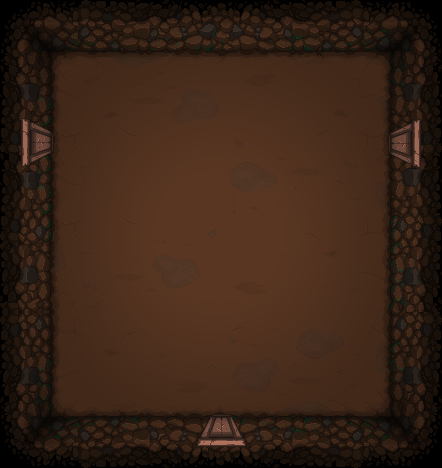
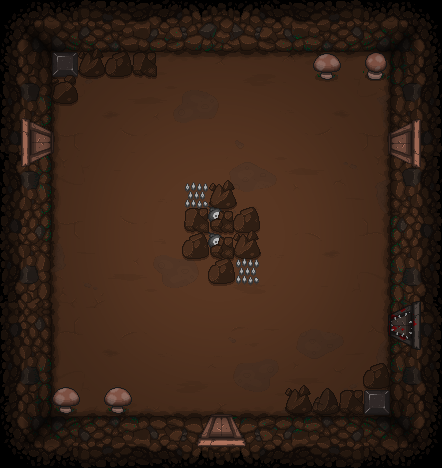
automatizacion de componetes: sprites, section,infocard

diff --git a/src/pages/Home/components/SectionImage/SectionImage.tsx b/src/pages/Home/components/SectionImage/SectionImage.tsx
@@ -4,32 +4,9 @@ import { motion, useScroll, useSpring, useTransform } from "framer-motion";
 import SectionBackground from "../SectionBackground/SectionBackground";
 import SectionInfo from "../SectionInfo/SectionInfo";
 import Banner from "../Banner/Banner";
-import SectionInfoTwo from "../HomeSectionInfos/SectionInfoTwo/SectionInfoTwo";
-import PixelSceneTwo from "../HomePixelScene/PixelSceneTwo/PixelSceneTwo";
-
-const sectionHeight = [140, 500, 650, 300, 400, 500, 400, 300, 150];
-const heightTotal = sectionHeight.reduce((acum, number) => acum + number, 0);
-
-const sections = [
-  { id: 1, shadow: "11", name: "basement" },
-  { id: 2, shadow: "12", name: "cellar" },
-  { id: 3, shadow: "21", name: "cavesv2" },
-  { id: 4, shadow: "22", name: "catacombs" },
-  { id: 5, shadow: "31", name: "necropolis" },
-  { id: 6, shadow: "32", name: "depthsL" },
-  { id: 7, shadow: "41", name: "utero" },
-];
-const scrollStartEnd: [number, number][] = sectionHeight.map(
-  (height, index) => {
-    const start =
-      index == 0
-        ? 0
-        : sectionHeight.slice(0, index).reduce((sum, h) => sum + h, 0) /
-          heightTotal;
-    const end = start + height / heightTotal;
-    return [start, end];
-  }
-);
+import SectionInfoTwo from "../SectionInfos/SectionInfoTwo/SectionInfoTwo";
+import { scrollStartEnd, heightTotal, sections } from "./config";
+import PixelScene from "../PixelScene/PixelScene";
 
 const SectionImage = () => {
   const scrollRef = useRef<HTMLDivElement | null>(null);
@@ -98,10 +75,27 @@ const SectionImage = () => {
                   ScrollYProgress={scrollYProgress}
                   ScrollStartEnd={scrollStartEnd[section.id - 1]}
                 ></SectionInfoTwo>
-                <PixelSceneTwo ScrollYProgress={scrollYProgress} ScrollStartEnd={scrollStartEnd[section.id - 1]}></PixelSceneTwo>
+                 {section.pixelSprite.map((pixel, index) => (
+                  <PixelScene
+                    key={index}
+                    scrollYProgress={scrollYProgress}
+                    scrollStartEnd={scrollStartEnd[section.id - 1]}
+                    pixelsprite={pixel}
+                  ></PixelScene>
+                ))}
               </>
             ) : (
-              <SectionInfo scrollYProgress={scrollYProgress}></SectionInfo>
+              <>
+                <SectionInfo scrollYProgress={scrollYProgress}></SectionInfo>
+                {section.pixelSprite.map((pixel, index) => (
+                  <PixelScene
+                    key={index}
+                    scrollYProgress={scrollYProgress}
+                    scrollStartEnd={scrollStartEnd[section.id - 1]}
+                    pixelsprite={pixel}
+                  ></PixelScene>
+                ))}
+              </>
             )}
           </SectionBackground>
         ))}

diff --git a/src/pages/Home/components/SectionImage/config.ts b/src/pages/Home/components/SectionImage/config.ts
@@ -1,0 +1,112 @@
+import { PixelSprite, Section } from "../Types";
+
+const sectionHeight = [140, 500, 650, 300, 400, 500, 400, 300, 150];
+
+export const heightTotal = sectionHeight.reduce(
+  (acum, number) => acum + number,
+  0
+);
+
+const pixelSprite2: PixelSprite[] = [
+  {
+    width: 10,
+    height: 8.5,
+    background_img: "/img/monsters/baby_long_legs.png",
+    animation: [0, 30],
+    bottom: 20,
+    right: 65,
+    x: 50,
+    y: -50,
+    sprites: 5,
+  },
+  {
+    width: 10,
+    height: 8.5,
+    background_img: "/img/monsters/crazy_long_legs.png",
+    animation: [3, 30],
+    bottom: 52,
+    right: 14,
+    x: -80,
+    y: -80,
+    sprites: 5,
+  },
+  {
+    width: 6.5,
+    height: 8.5,
+    background_img: "/img/others/gaper.png",
+    animation: [0, 30],
+    bottom: 45.5,
+    left: 12,
+    x: 100,
+    sprites: 10,
+  },
+  {
+    width: 6.5,
+    height: 8,
+    background_img: "/img/others/isaac_running.png",
+    animation: [0, 12],
+    bottom: 45,
+    right: 35,
+    x: -90,
+    sprites: 10,
+  },
+];
+
+const pixelSprite3: PixelSprite[] = [
+  {
+    width: 8.5,
+    height: 9,
+    background_img: "/img/others/fire_place.png",
+    animation: [0, 25],
+    top: 8.4,
+    right: 15.7,
+    sprites: 6,
+  },
+  {
+    width: 8.5,
+    height: 9,
+    background_img: "/img/others/fire_place.png",
+    animation: [3, 28],
+    bottom: 11.4,
+    left: 16.7,
+    sprites: 6,
+  },
+  {
+    width: 11,
+    height: 7.5,
+    background_img: "public/img/monsters/one_tooth.png",
+    animation: [0, 18],
+    top: 18,
+    left: 36,
+    x: -40,
+    y:100,
+    sprites: 3,
+  },
+];
+
+export const sections: Section[] = [
+  {
+    id: 1,
+    shadow: "11",
+    name: "basement",
+    pixelSprite: pixelSprite2,
+  },
+  { id: 2, shadow: "12", name: "cellar", pixelSprite: pixelSprite2 },
+  { id: 3, shadow: "21", name: "cavesv2", pixelSprite: pixelSprite3 },
+  { id: 4, shadow: "22", name: "catacombs", pixelSprite: pixelSprite2 },
+  { id: 5, shadow: "31", name: "necropolis", pixelSprite: pixelSprite2 },
+  { id: 6, shadow: "32", name: "depthsL", pixelSprite: pixelSprite2 },
+  { id: 7, shadow: "41", name: "utero", pixelSprite: pixelSprite2 },
+];
+
+export const scrollStartEnd: [number, number][] = sectionHeight.map(
+  (height, index) => {
+    const start =
+      index === 0
+        ? 0
+        : sectionHeight.slice(0, index).reduce((sum, h) => sum + h, 0) /
+          heightTotal;
+    const end = start + height / heightTotal;
+    return [start, end];
+  }
+);

diff --git a/src/pages/Home/components/PixelScene/PixelScene.tsx b/src/pages/Home/components/PixelScene/PixelScene.tsx
@@ -1,0 +1,39 @@
+import { PixelSprite } from '../Types';
+import { motion, MotionValue, useSpring, useTransform } from 'framer-motion';
+import style from './PixelScene.module.css'
+
+interface PropsPixelScene {
+    scrollYProgress: MotionValue<number>;
+    scrollStartEnd: [number, number];
+    pixelsprite: PixelSprite
+}
+
+const PixelScene = ({scrollYProgress,scrollStartEnd,pixelsprite}:PropsPixelScene) => {
+    const start = scrollStartEnd[0];
+    const end = scrollStartEnd[1];
+    let valuex1;
+    let valuey1;
+    const animation = useTransform(scrollYProgress, [start,end],[pixelsprite.animation[0],pixelsprite.animation[1]]);
+    const animationsmooth = useSpring(animation,{stiffness:200, damping:40})
+    const animationvalue = useTransform(animationsmooth, (value) => `calc(-${pixelsprite.width}vw *${Math.floor(value) % pixelsprite.sprites})`);
+
+    if(pixelsprite.x){
+        const x1 = useTransform(scrollYProgress,[start,end],[0,pixelsprite.x]);
+        const x1smooth = useSpring(x1,{stiffness:300, damping:40})
+        valuex1 = useTransform(x1smooth, (value) => `${value}%`)
+    }
+
+    if(pixelsprite.y){
+        const y1 =useTransform(scrollYProgress,[start,end],[0,pixelsprite.y]);
+        const y1smooth = useSpring(y1,{stiffness:300, damping:40})
+        valuey1 = useTransform(y1smooth, (value) => `${value}%`)
+    }
+   
+
+  return (
+    <motion.div className={style.pixel} style={{backgroundPositionX:animationvalue,backgroundSize:`calc(${pixelsprite.width}vw * ${pixelsprite.sprites}) auto`, x:valuex1, y:valuey1, width:`${pixelsprite.width}vw`, height:`${pixelsprite.height}vw`, backgroundImage: `url(${pixelsprite.background_img})` , top:`${pixelsprite.top}%`, bottom:`${pixelsprite.bottom}%`, left:`${pixelsprite.left}%`, right:`${pixelsprite.right}%`}}>
+    </motion.div>
+  )
+}
+
+export default PixelScene

diff --git a/src/pages/Home/components/Types.ts b/src/pages/Home/components/Types.ts
@@ -1,0 +1,35 @@
+export interface PixelSprite{
+    width:number;
+    height:number;
+    background_img:string;
+    top?:number;
+    bottom?:number;
+    left?:number;
+    right?:number;
+    animation:[number,number];
+    x?:number;
+    y?:number;
+    sprites:number;
+}
+
+export interface Section{
+    id:number;
+    shadow: string;
+    name:string;
+    pixelSprite: PixelSprite[];
+}
+
+export interface InfoCard{
+    width:number;
+    height:number;
+    info_img:[string,string] | string;
+    text:string;
+    background_img:string;
+    typeCard:string;
+    top?:number;
+    bottom?:number;
+    left?:number;
+    right?:number;
+    moveX:[number,number,number,number] | [number,number];
+    moveY:[number,number,number,number] | [number,number];
+}

diff --git a/src/pages/Home/components/SectionInfo/SectionInfo.module.css b/src/pages/Home/components/SectionInfo/SectionInfo.module.css
@@ -15,7 +15,7 @@
         height: 100%;
         max-height: 500px;
         padding: 3rem 3rem;
-        background-image: url(/img/UI/cards/letter_background.png);
+        background-image: url(/img/UI/cards/large_cardv4.png);
         background-repeat: no-repeat;
         background-size: cover;
         color: rgb(0, 0, 0);

diff --git a/src/pages/Home/Home.tsx b/src/pages/Home/Home.tsx
@@ -1,6 +1,6 @@
 import styles from "./Home.module.css";
 import { useEffect } from "react";
-import SectionImage from "../../components/SectionImage/SectionImage";
+import SectionImage from "./components/SectionImage/SectionImage";
 interface Props {
   onLoaded: () => void;
 }

diff --git a/src/pages/Home/components/PixelScene/PixelScene.module.css b/src/pages/Home/components/PixelScene/PixelScene.module.css
@@ -1,0 +1,6 @@
+.pixel{
+    background-repeat: no-repeat;
+    position: absolute;
+    image-rendering: pixelated; 
+    z-index: 1;
+}
